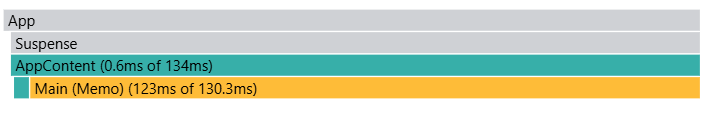
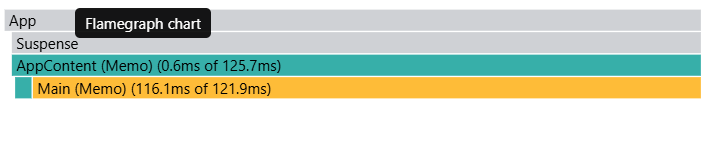
fix: readme after fix sorting

diff --git a/README.md b/README.md
@@ -14,9 +14,9 @@
 
   ![Flame Graph chart](screnshots-profiler/image.png)
 
-_after:_
+  _after:_
 
-![Flame Graph chart](screnshots-profiler/image-8.png)
+  ![Flame Graph chart](screnshots-profiler/image-8.png)
 
 - **Ranked Chart:**
 
@@ -30,10 +30,10 @@ _after:_
 
 ### Interaction 2: Sorting a column
 
-- **Commit Duration:** 157.5ms => 134ms
+- **Commit Duration:** 157.5ms => 125.7ms
 - **Render Duration:**
-  - Main: 147.5ms => 123ms
-  - Header: 16.2ms => 2.9ms
+  - Main: 147.5ms => 116.1ms
+  - Header: 16.2ms => 3.1ms
   - App: 0.5ms => 0.6ms
 
 - **Interactions:** Select sort by population
